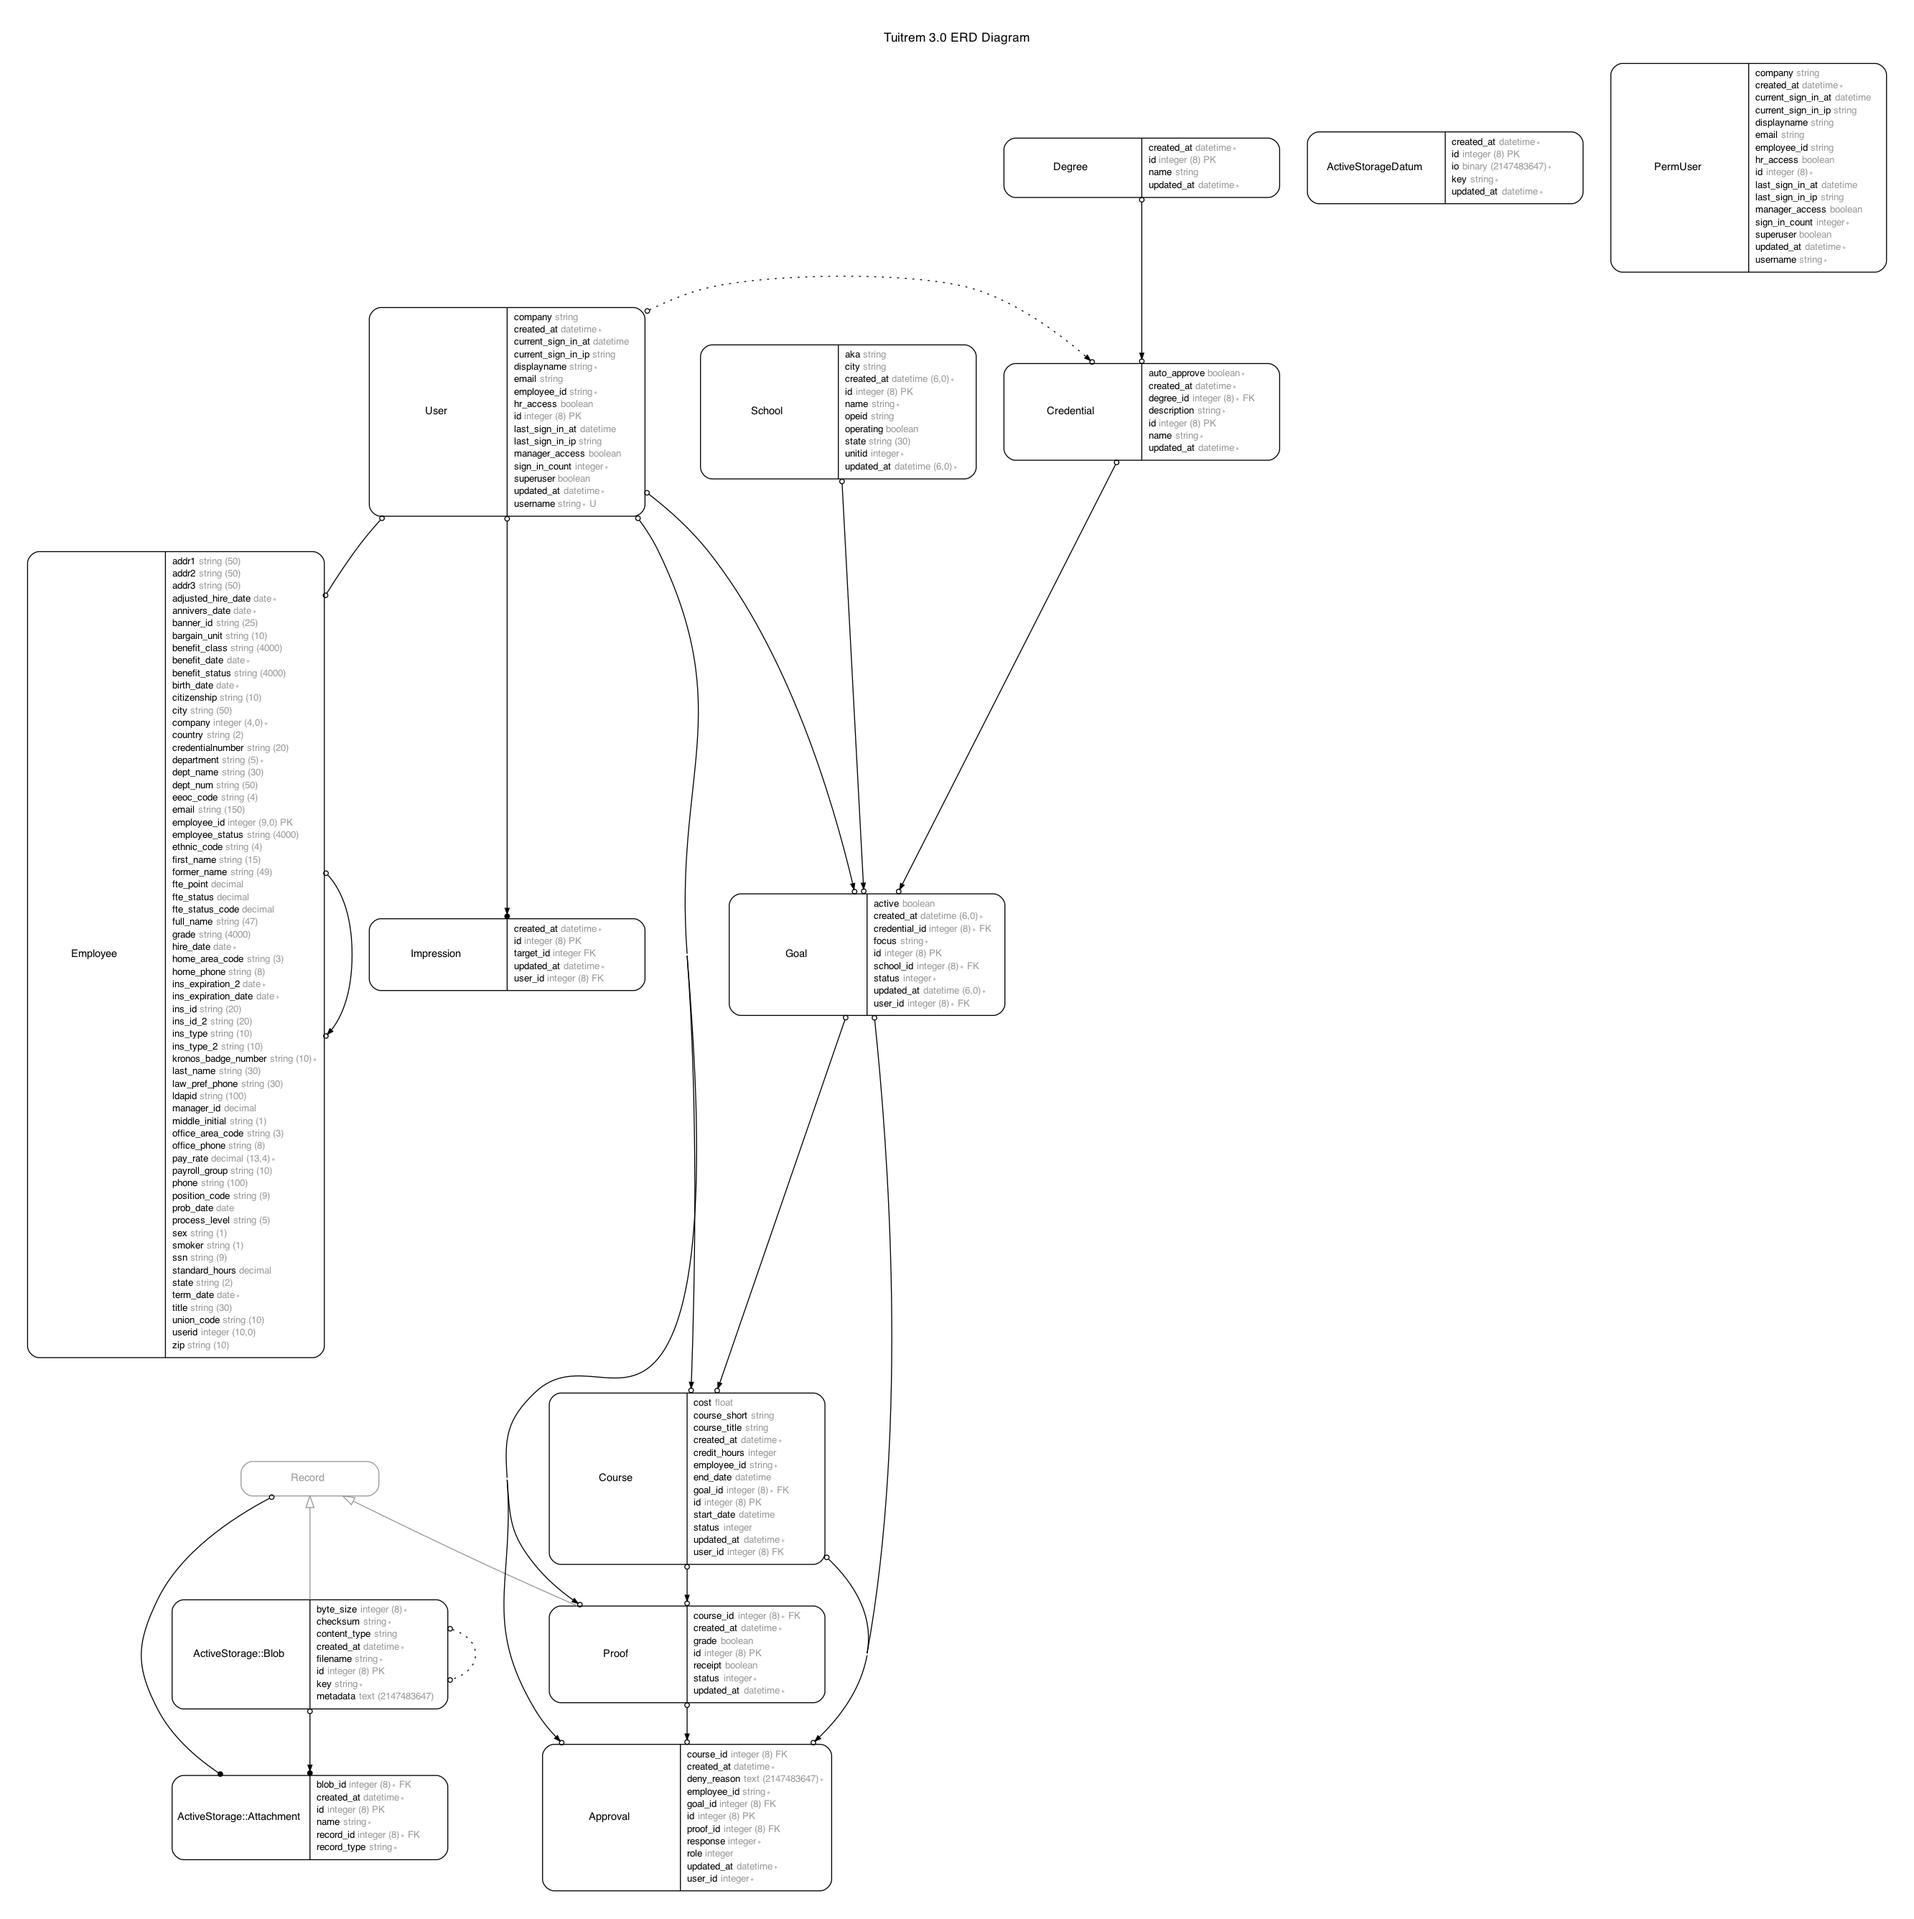
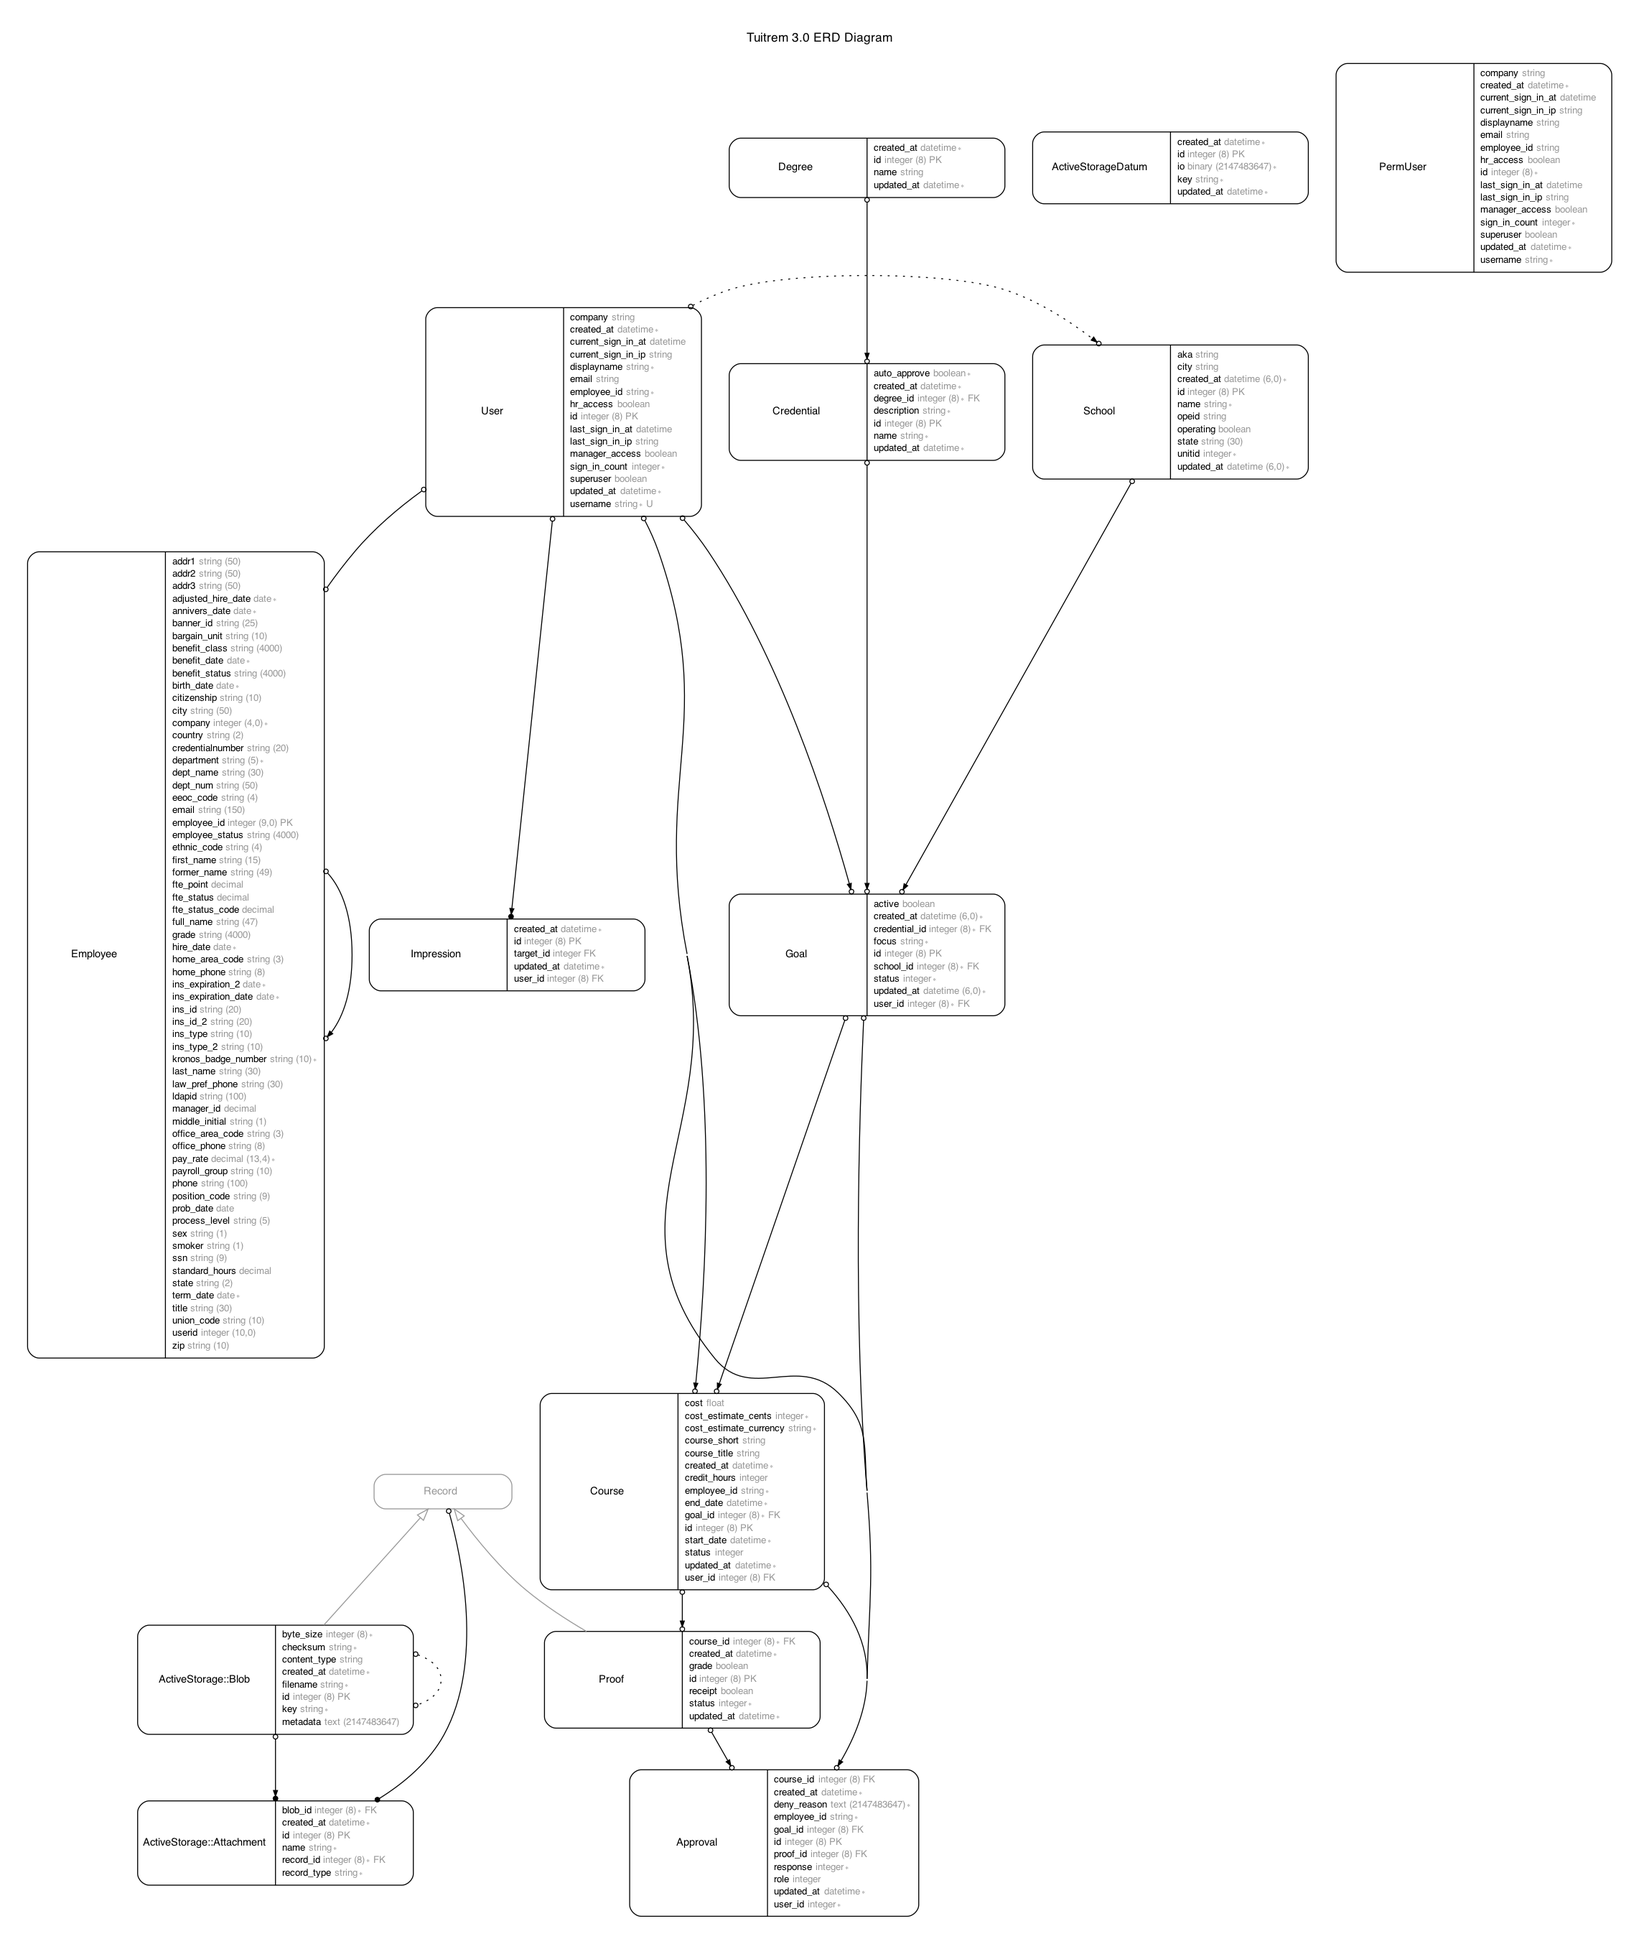
For #138 create new monetized cost estimate field for calculations

diff --git a/app/models/course.rb b/app/models/course.rb
@@ -4,19 +4,21 @@
 #
 # Table name: courses
 #
-#  id           :bigint           not null, primary key
-#  cost         :float
-#  course_short :string(4000)
-#  course_title :string(4000)
-#  credit_hours :integer
-#  end_date     :datetime
-#  start_date   :datetime
-#  status       :integer
-#  created_at   :datetime         not null
-#  updated_at   :datetime         not null
-#  employee_id  :string(4000)
-#  goal_id      :bigint
-#  user_id      :bigint
+#  id                     :bigint           not null, primary key
+#  cost                   :float
+#  cost_estimate_cents    :integer          default(0), not null
+#  cost_estimate_currency :string(4000)     default("USD"), not null
+#  course_short           :string(4000)
+#  course_title           :string(4000)
+#  credit_hours           :integer
+#  end_date               :datetime
+#  start_date             :datetime
+#  status                 :integer
+#  created_at             :datetime         not null
+#  updated_at             :datetime         not null
+#  employee_id            :string(4000)
+#  goal_id                :bigint
+#  user_id                :bigint
 #
 # Indexes
 #
@@ -35,6 +37,8 @@ class Course < ApplicationRecord
   has_many   :proofs,    dependent: :destroy
 
   enum status: { draft: 0, pending: 1, denied: 2, approved: 3, withdrawn: 4, reimbursed: 5 }
+
+  monetize :cost_estimate_cents, allow_nil: true
 
   # == Validations ====================================
   validates :employee_id, presence: true

diff --git a/spec/factories/courses.rb b/spec/factories/courses.rb
@@ -2,19 +2,21 @@
 #
 # Table name: courses
 #
-#  id           :bigint           not null, primary key
-#  cost         :float
-#  course_short :string(4000)
-#  course_title :string(4000)
-#  credit_hours :integer
-#  end_date     :datetime
-#  start_date   :datetime
-#  status       :integer
-#  created_at   :datetime         not null
-#  updated_at   :datetime         not null
-#  employee_id  :string(4000)
-#  goal_id      :bigint
-#  user_id      :bigint
+#  id                     :bigint           not null, primary key
+#  cost                   :float
+#  cost_estimate_cents    :integer          default(0), not null
+#  cost_estimate_currency :string(4000)     default("USD"), not null
+#  course_short           :string(4000)
+#  course_title           :string(4000)
+#  credit_hours           :integer
+#  end_date               :datetime
+#  start_date             :datetime
+#  status                 :integer
+#  created_at             :datetime         not null
+#  updated_at             :datetime         not null
+#  employee_id            :string(4000)
+#  goal_id                :bigint
+#  user_id                :bigint
 #
 # Indexes
 #

diff --git a/spec/models/course_spec.rb b/spec/models/course_spec.rb
@@ -2,19 +2,21 @@
 #
 # Table name: courses
 #
-#  id           :bigint           not null, primary key
-#  cost         :float
-#  course_short :string(4000)
-#  course_title :string(4000)
-#  credit_hours :integer
-#  end_date     :datetime
-#  start_date   :datetime
-#  status       :integer
-#  created_at   :datetime         not null
-#  updated_at   :datetime         not null
-#  employee_id  :string(4000)
-#  goal_id      :bigint
-#  user_id      :bigint
+#  id                     :bigint           not null, primary key
+#  cost                   :float
+#  cost_estimate_cents    :integer          default(0), not null
+#  cost_estimate_currency :string(4000)     default("USD"), not null
+#  course_short           :string(4000)
+#  course_title           :string(4000)
+#  credit_hours           :integer
+#  end_date               :datetime
+#  start_date             :datetime
+#  status                 :integer
+#  created_at             :datetime         not null
+#  updated_at             :datetime         not null
+#  employee_id            :string(4000)
+#  goal_id                :bigint
+#  user_id                :bigint
 #
 # Indexes
 #

diff --git a/db/schema.rb b/db/schema.rb
@@ -10,7 +10,7 @@
 #
 # It's strongly recommended that you check this file into your version control system.
 
-ActiveRecord::Schema.define(version: 2021_08_12_204855) do
+ActiveRecord::Schema.define(version: 2021_10_21_192108) do
 
   create_table "active_storage_attachments", force: :cascade do |t|
     t.string "name", null: false
@@ -70,6 +70,8 @@ ActiveRecord::Schema.define(version: 2021_08_12_204855) do
     t.integer "status"
     t.bigint "user_id"
     t.bigint "goal_id"
+    t.integer "cost_estimate_cents", default: 0, null: false
+    t.string "cost_estimate_currency", default: "USD", null: false
     t.index ["goal_id"], name: "index_courses_on_goal_id"
     t.index ["user_id"], name: "index_courses_on_user_id"
   end

diff --git a/db/migrate/20211021192108_add_cost_estimate_to_course.rb b/db/migrate/20211021192108_add_cost_estimate_to_course.rb
@@ -1,0 +1,10 @@
+class AddCostEstimateToCourse < ActiveRecord::Migration[6.0]
+  def up
+    add_monetize :courses, :cost_estimate
+    execute 'update courses set cost_estimate_cents = cost*100'
+  end
+
+  def down
+
+  end
+end
